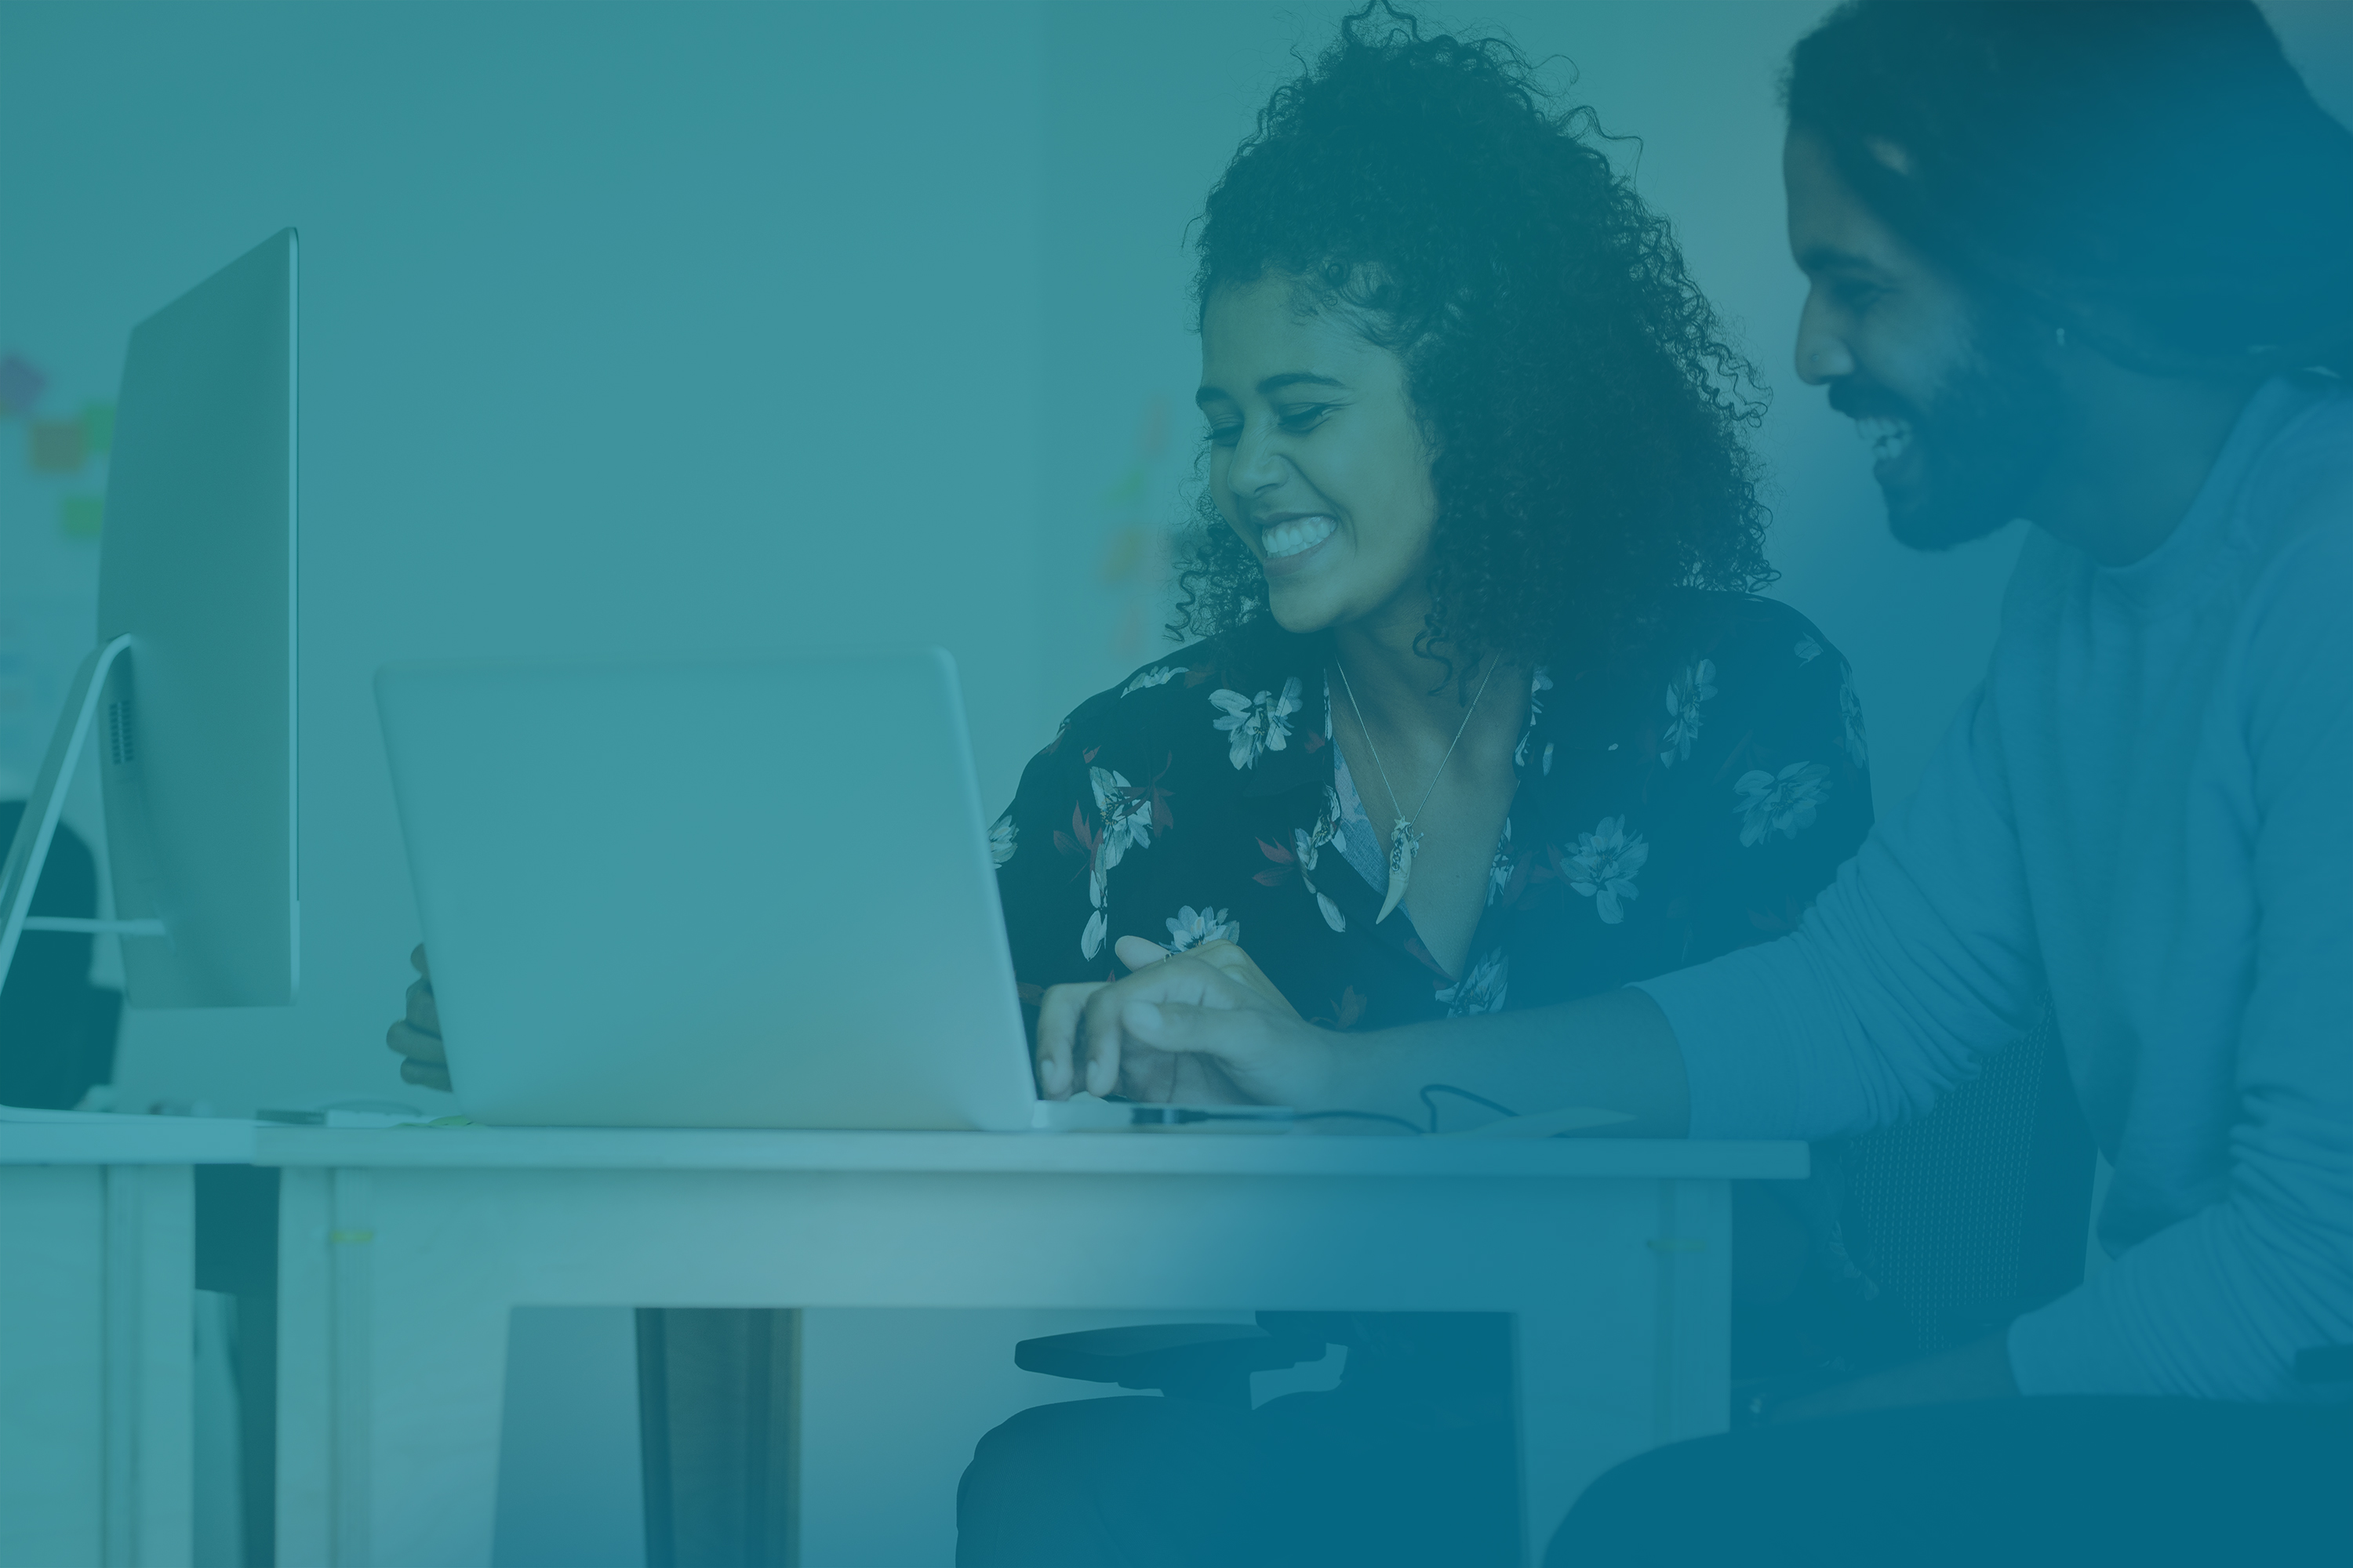
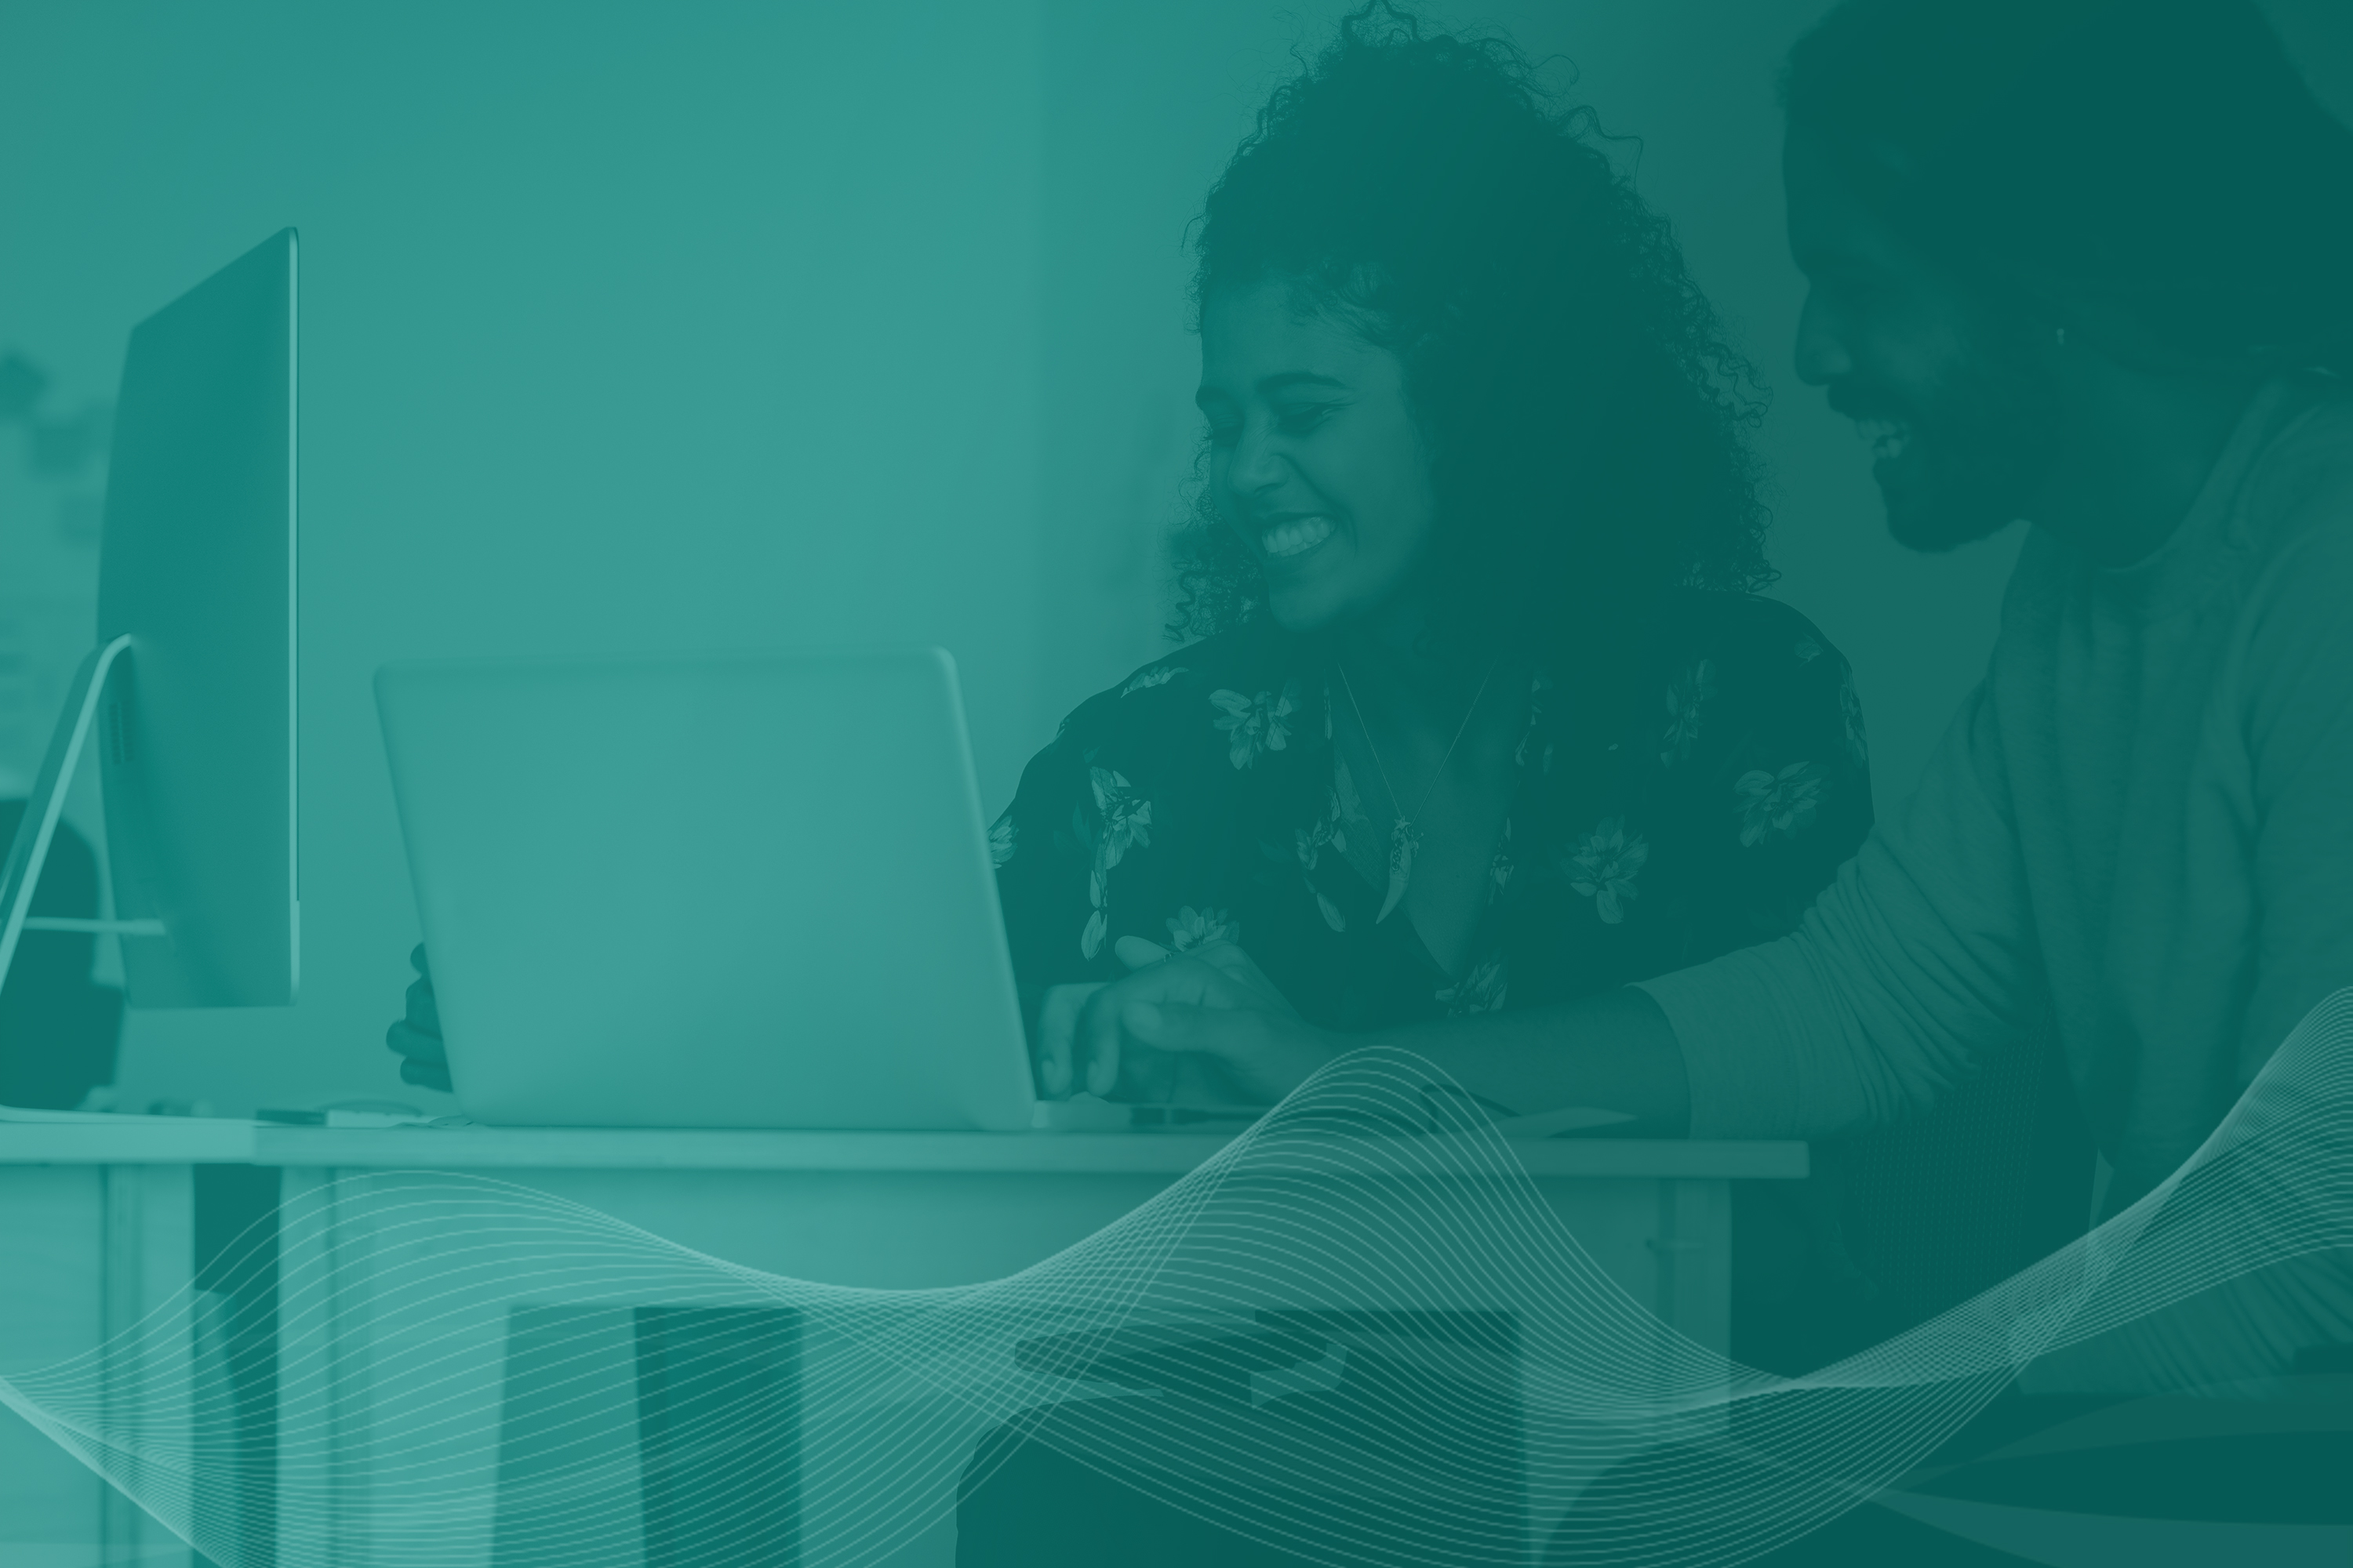
added features

diff --git a/public/css/style.css b/public/css/style.css
@@ -81,9 +81,10 @@ p.lead {
 
 .btn-primary {
     border-radius: 3px;
-    background-image: -moz-linear-gradient( 135deg, #48A48E, #0A786B 50%, #0E7674 100%);
-    background-image: -webkit-linear-gradient( 135deg, #48A48E 0%, #0A786B 50%, #0E7674 100%);
-    background-image: linear-gradient( 135deg, #48A48E 0%, #0A786B 50%, #0E7674 100%);
+    background-image: -moz-linear-gradient( 135deg, #2CB4AB , rgb(27, 168, 159) 50%, rgb(5, 110, 103) 100%);
+    background-image: -webkit-linear-gradient( 135deg, #2CB4AB  0%, rgb(27, 168, 159) 50%,  rgb(5, 110, 103) 100%);
+    background-image: -ms-linear-gradient( 135deg, #2CB4AB  0%, rgb(27, 168, 159) 50%,  rgb(5, 110, 103) 100%);
+    background-image: linear-gradient( 135deg, #2CB4AB  0%, rgb(27, 168, 159)  50%,  rgb(5, 110, 103) 100%);
     box-shadow: 0px 9px 32px 0px rgba(0, 0, 0, 0.2);
     font-weight: 500;
     padding: 0.6rem 2rem;
@@ -159,10 +160,10 @@ p.lead {
 
 .nav-menu.is-scrolling,
 .nav-menu.menu-is-open {
-    background-image: -moz-linear-gradient( 135deg, #037c78, #036f7c 50%, #0b798d 100%);
-    background-image: -webkit-linear-gradient( 135deg, #037c78 0%, #036f7c 50%, #0b798d 100%);
-    background-image: -ms-linear-gradient( 135deg, #037c78 0%, #036f7c 50%, #0b798d 100%);
-    background-image: linear-gradient( 135deg, #037c78 0%, #036f7c 50%, #0b798d 100%);
+    background-image: -moz-linear-gradient( 135deg, #2CB4AB , rgb(27, 168, 159) 50%,  rgb(5, 110, 103) 100%);
+    background-image: -webkit-linear-gradient( 135deg, #2CB4AB  0%, rgb(27, 168, 159) 50%,  rgb(5, 110, 103) 100%);
+    background-image: -ms-linear-gradient( 135deg, #2CB4AB  0%, rgb(27, 168, 159) 50%,  rgb(5, 110, 103) 100%);
+    background-image: linear-gradient( 135deg, #2CB4AB  0%, rgb(27, 168, 159)  50%,  rgb(5, 110, 103) 100%);
     -webkit-box-shadow: 0px 5px 23px 0px rgba(0, 0, 0, 0.1);
     -moz-box-shadow: 0px 5px 23px 0px rgba(0, 0, 0, 0.1);
     box-shadow: 0px 5px 23px 0px rgba(0, 0, 0, 0.1);
@@ -224,12 +225,10 @@ header {
 #particles-js{  
     position:relative;
    padding-top: 5%;
-   padding-top: 5%;
    background-color: transparent; 
    background-image: url("../images/bkg.jpg"); 
    background-repeat: no-repeat; 
    background-size: cover;
-   height:50%;
    background-position: center center; 
 } 
 
@@ -241,10 +240,10 @@ header {
 }
 
 .bg-gradient2 {
-    background-image: -moz-linear-gradient( 135deg, #037c78, #036f7c 50%, #0b798d 100%);
-    background-image: -webkit-linear-gradient( 135deg, #037c78 0%, #036f7c 50%, #0b798d 100%);
-    background-image: -ms-linear-gradient( 135deg, #037c78 0%, #036f7c 50%, #0b798d 100%);
-    background-image: linear-gradient( 135deg, #037c78 0%, #036f7c 50%, #0b798d 100%);
+    background-image: url("../images/connect.png"), -moz-linear-gradient( 135deg, #2CB4AB , rgb(27, 168, 159) 50%,  rgb(5, 110, 103) 100%);
+    background-image: url("../images/connect.png"), -webkit-linear-gradient( 135deg, #2CB4AB  0%, rgb(27, 168, 159) 50%,  rgb(5, 110, 103) 100%);
+    background-image: url("../images/connect.png"), -ms-linear-gradient( 135deg, #2CB4AB  0%, rgb(27, 168, 159) 50%,  rgb(5, 110, 103) 100%);
+    background-image: url("../images/connect.png"), linear-gradient( 135deg, #2CB4AB  0%, rgb(27, 168, 159)  50%,  rgb(5, 110, 103) 100%);
 }
 
 .bg-dark{
@@ -259,6 +258,7 @@ header {
     color: #ffffff;
     max-width: 800px;
     margin: 0 auto;
+    font-family:'Lato', sans-serif;
 }
 
 .homelogo{
@@ -297,11 +297,11 @@ header {
 ----------------------*/
 
 .gradient-fill:before {
-    color: #fc73b4;
-    background: -moz-linear-gradient( 135deg, #48A48E, #0A786B 50%, #0E7674 100%);
-    background: -webkit-linear-gradient( 135deg, #48A48E 0%, #0A786B 50%, #0E7674 100%);
-    background: -ms-linear-gradient( 135deg, #48A48E 0%, #0A786B 50%, #0E7674 100%);
-    background: linear-gradient( 135deg, #48A48E 0%, #0A786B 50%, #0E7674 100%);
+    color: #2cb4ab;
+    background-image: -moz-linear-gradient( 135deg, #2CB4AB , rgb(27, 168, 159) 50%,  rgb(5, 110, 103) 100%);
+    background-image: -webkit-linear-gradient( 135deg, #2CB4AB  0%, rgb(27, 168, 159) 50%,  rgb(5, 110, 103) 100%);
+    background-image: -ms-linear-gradient( 135deg, #2CB4AB  0%, rgb(27, 168, 159) 50%,  rgb(5, 110, 103) 100%);
+    background-image: linear-gradient( 135deg, #2CB4AB  0%, rgb(27, 168, 159)  50%,  rgb(5, 110, 103) 100%);
     -webkit-background-clip: text;
     background-clip: text;
     -webkit-text-fill-color: transparent;
